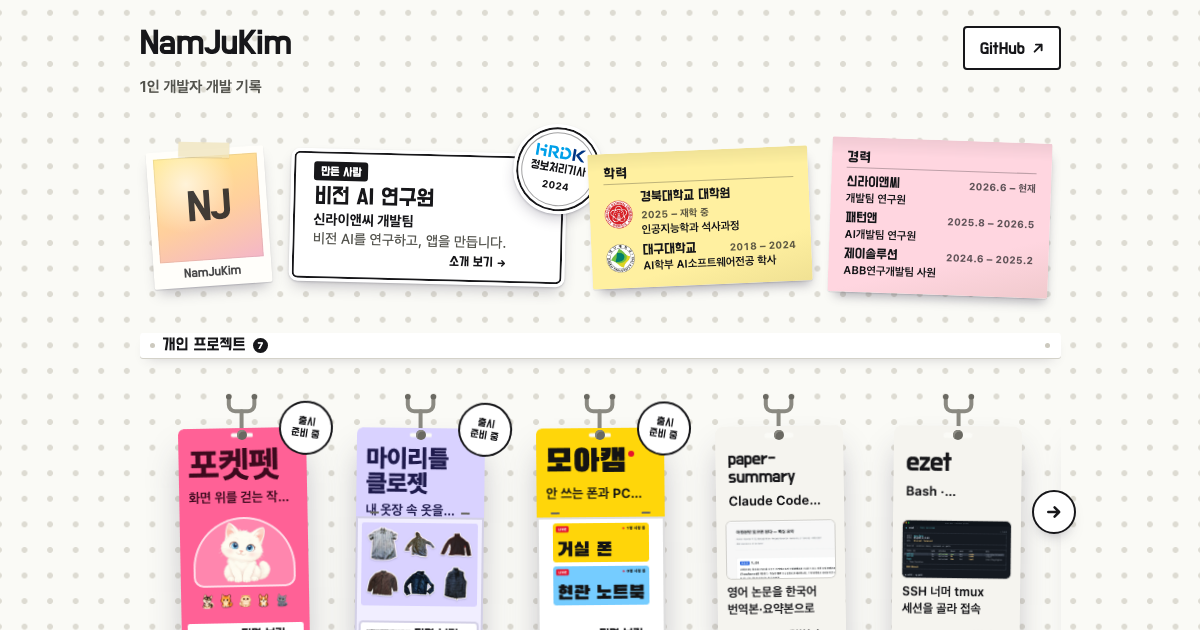
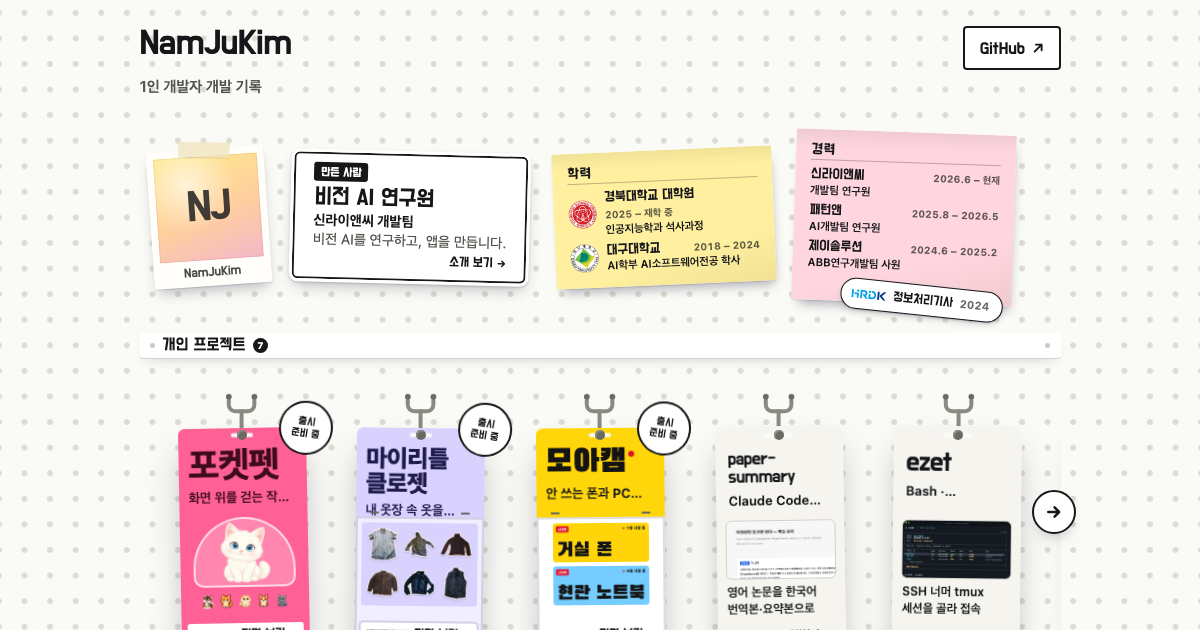
정보처리기사는 작은 딱지로 소개 맨 끝에
- 이름표 모서리의 큰 동그라미 인증 스티커를 작은 알약 딱지(HRDK 마크 + 정보처리기사 2024)로 줄이고, 소개 묶음의 마지막인 경력 포스트잇 오른쪽 아래 모서리로 옮겼다("그렇게 까지 강조할건 아냐", "내 소개 젤 끝에 작게").
- 이름표 오른쪽에 비워 두던 자리를 되돌렸다.
- 아주 좁은 폰(380px·340px 이하)은 포스트잇 글이 더 줄바뀜해서 스티커 묶음을 칸의 정수배만큼 더 높게.

Changed region(s): [[0.2467, 0.181, 0.8942, 0.5127]]

diff --git a/assets/site.css b/assets/site.css
@@ -355,7 +355,7 @@ a {
   flex: none;
   display: grid;
   justify-items: start;
-  padding: calc(var(--P) * 0.4) calc(var(--P) * 2.2) calc(var(--P) * 0.45) calc(var(--P) * 0.8);
+  padding: calc(var(--P) * 0.4) calc(var(--P) * 0.8) calc(var(--P) * 0.45);
   color: var(--ink);
   text-decoration: none;
   background: var(--paper);
@@ -489,42 +489,44 @@ a {
   font-weight: 600;
   line-height: 1.3;
 }
-/* 인증 스티커: 흰 동그라미에 겹 테두리, 가운데 발급 기관 마크. 이름표 오른쪽 위 모서리에 도장처럼 붙인다. */
+/* 정보처리기사: 소개 묶음 맨 끝, 마지막 포스트잇의 오른쪽 아래 모서리에 붙인 작은 알약 딱지. 크게 내세우지 않는다. */
+.note {
+  position: relative;
+}
+.note:has(.seal) {
+  padding-bottom: max(calc(var(--P) * 0.95), 1.9rem);
+}
 .seal {
   position: absolute;
-  top: calc(var(--P) * -1.3);
-  right: calc(var(--P) * -1.5);
-  display: grid;
-  place-items: center;
-  align-content: center;
-  gap: 0.12em;
-  width: max(calc(var(--P) * 3.5), 5.6rem);
-  height: max(calc(var(--P) * 3.5), 5.6rem);
-  text-align: center;
+  right: calc(var(--P) * 0.3);
+  bottom: calc(var(--P) * -0.45);
+  width: max-content;
+  display: inline-flex;
+  align-items: center;
+  gap: 0.4em;
+  padding: 0.32em 0.75em 0.3em 0.6em;
+  white-space: nowrap;
   color: var(--ink);
   background: var(--tone);
-  border: calc(var(--P) * 0.13) solid #fff;
-  border-radius: 50%;
+  border: 1.5px solid var(--ink);
+  border-radius: 999px;
   box-shadow:
-    inset 0 0 0 2px var(--ink),
-    inset 0 0 0 calc(2px + var(--P) * 0.12) var(--tone),
-    inset 0 0 0 calc(3px + var(--P) * 0.12) color-mix(in srgb, var(--ink) 40%, transparent),
-    0 1px 2px rgb(52 48 70 / 0.22),
-    0 calc(var(--P) * 0.3) calc(var(--P) * 0.6) calc(var(--P) * -0.2) rgb(52 48 70 / 0.32);
+    0 1px 2px rgb(52 48 70 / 0.18),
+    0 4px 8px -4px rgb(52 48 70 / 0.32);
   transform: rotate(var(--tilt, 0deg));
 }
 .seal__logo {
-  height: calc(var(--P) * 0.62);
+  height: 0.7rem;
   width: auto;
-  max-width: 70%;
 }
 .seal b {
-  font: 400 max(0.75rem, calc(var(--P) * 0.36)) / 1.1 var(--shop);
+  font: 400 0.8125rem / 1 var(--shop);
 }
 .seal small {
-  font-size: max(0.625rem, calc(var(--P) * 0.26));
+  font-size: 0.6875rem;
   font-weight: 700;
   font-variant-numeric: tabular-nums;
+  color: color-mix(in srgb, var(--ink) 65%, transparent);
 }
 
 /* 칸 이름 띠에 붙인 판촉 스티커(예: 모두의 창업). 띠 위로 조금 삐져나오게 붙인다. */
@@ -2396,22 +2398,26 @@ svg.app-icon {
   .hooks {
     padding-left: calc(var(--P) * var(--tlead));
   }
-  /* 이름표가 벽 끝까지 차므로 인증 스티커를 모서리 안쪽으로 당긴다(화면 밖으로 나가지 않게) */
-  .seal {
-    top: calc(var(--P) * -1.6);
-    right: calc(var(--P) * -0.6);
-  }
 }
 @media (max-width: 735px) {
   .maker {
     height: calc(var(--P) * 18);
   }
+}
+/* 아주 좁은 폰은 포스트잇 글이 더 줄바뀜하므로 묶음을 몇 칸 더 높게(칸의 정수배라 고리 맞춤은 그대로) */
+@media (max-width: 380px) {
+  .maker {
+    height: calc(var(--P) * 22);
+  }
+}
+@media (max-width: 340px) {
+  .maker {
+    height: calc(var(--P) * 30);
+  }
+}
+@media (max-width: 735px) {
   .maker__photo {
     width: calc(var(--P) * 5.2);
-  }
-  .seal {
-    top: calc(var(--P) * -1.6);
-    right: calc(var(--P) * -0.6);
   }
   .note__logo {
     width: calc(var(--P) * 1.7);

diff --git a/index.html b/index.html
@@ -41,11 +41,10 @@
   <span class="maker__org">신라이앤씨 개발팀</span>
   <span class="maker__line">비전 AI를 연구하고, 앱을 만듭니다.</span>
   <span class="maker__go">소개 보기 <svg viewBox="0 0 14 14" fill="none" stroke="currentColor" stroke-width="2.2" stroke-linecap="round" stroke-linejoin="round" aria-hidden="true" focusable="false"><path d="M2 7h9.5M7.5 3l4 4-4 4"/></svg></span>
-  <span class="seal" style="--tone:#ffffff;--tilt:8deg"><img class="seal__logo" src="/assets/img/marks/hrdk.svg" alt="" loading="lazy"><b>정보처리기사</b><small>2024</small></span>
 </a>
 <ul class="maker__stickers" aria-label="학력과 경력">
 <li class="note" style="--tone:#fff0a0;--tilt:-2.5deg"><p class="note__title">학력</p><ul class="note__rows"><li><img class="note__logo" src="/assets/img/marks/knu.webp" alt="" loading="lazy"><span class="note__text"><span class="note__head"><b>경북대학교 대학원</b><small>2025 – 재학 중</small></span><span>인공지능학과 석사과정</span></span></li><li><img class="note__logo" src="/assets/img/marks/daegu.webp" alt="" loading="lazy"><span class="note__text"><span class="note__head"><b>대구대학교</b><small>2018 – 2024</small></span><span>AI학부 AI소프트웨어전공 학사</span></span></li></ul></li>
-<li class="note" style="--tone:#ffd6e0;--tilt:2deg"><p class="note__title">경력</p><ul class="note__rows"><li><span class="note__text"><span class="note__head"><b>신라이앤씨</b><small>2026.6 – 현재</small></span><span>개발팀 연구원</span></span></li><li><span class="note__text"><span class="note__head"><b>패턴앤</b><small>2025.8 – 2026.5</small></span><span>AI개발팀 연구원</span></span></li><li><span class="note__text"><span class="note__head"><b>제이솔루션</b><small>2024.6 – 2025.2</small></span><span>ABB연구개발팀 사원</span></span></li></ul></li>
+<li class="note" style="--tone:#ffd6e0;--tilt:2deg"><p class="note__title">경력</p><ul class="note__rows"><li><span class="note__text"><span class="note__head"><b>신라이앤씨</b><small>2026.6 – 현재</small></span><span>개발팀 연구원</span></span></li><li><span class="note__text"><span class="note__head"><b>패턴앤</b><small>2025.8 – 2026.5</small></span><span>AI개발팀 연구원</span></span></li><li><span class="note__text"><span class="note__head"><b>제이솔루션</b><small>2024.6 – 2025.2</small></span><span>ABB연구개발팀 사원</span></span></li></ul><span class="seal" style="--tone:#ffffff;--tilt:4deg"><img class="seal__logo" src="/assets/img/marks/hrdk.svg" alt="" loading="lazy"><b>정보처리기사</b><small>2024</small></span></li>
 </ul>
 </section>
 <section class="aisle aisle--personal" aria-labelledby="a-personal">

diff --git a/tool/build.py b/tool/build.py
@@ -518,8 +518,8 @@ def maker(profile):
             return ""
         return f'<img class="{cls}" src="{esc(logo)}" alt="" loading="lazy">'
 
-    def note(x):
-        """포스트잇 한 장: 제목(학력·경력)과 줄마다 마크·이름·기간·한 줄."""
+    def note(x, extra=""):
+        """포스트잇 한 장: 제목(학력·경력)과 줄마다 마크·이름·기간·한 줄. extra 는 모서리에 붙일 작은 딱지."""
         rows = "".join(
             f'<li>{mark(r, "note__logo")}<span class="note__text"><span class="note__head"><b>{esc(r["name"])}</b>'
             f'<small>{esc(r["when"])}</small></span><span>{esc(r["detail"])}</span></span></li>'
@@ -527,18 +527,19 @@ def maker(profile):
         )
         return (
             f'<li class="note" style="--tone:{x["tone"]};--tilt:{x["tilt"]}deg">'
-            f'<p class="note__title">{esc(x["title"])}</p><ul class="note__rows">{rows}</ul></li>'
+            f'<p class="note__title">{esc(x["title"])}</p><ul class="note__rows">{rows}</ul>{extra}</li>'
         )
 
     def seal(x):
-        """인증 스티커. 이름표 모서리에 도장처럼 붙인다."""
+        """자격증 딱지. 소개 묶음 맨 끝(마지막 포스트잇의 오른쪽 아래 모서리)에 작게 붙인다."""
         return (
             f'<span class="seal" style="--tone:{x["tone"]};--tilt:{x["tilt"]}deg">{mark(x, "seal__logo")}'
             f'<b>{esc(x["top"])}</b><small>{esc(x["sub"])}</small></span>'
         )
 
-    notes = "\n".join(note(x) for x in profile["stickers"] if x["kind"] == "note")
+    note_items = [x for x in profile["stickers"] if x["kind"] == "note"]
     seals = "".join(seal(x) for x in profile["stickers"] if x["kind"] == "seal")
+    notes = "\n".join(note(x, seals if i == len(note_items) - 1 else "") for i, x in enumerate(note_items))
     href = esc(profile["href"])
     return f"""<section class="maker" aria-label="{esc(profile["label"])}">
 <a class="maker__photo polaroid" href="{href}" tabindex="-1" aria-hidden="true">{photo}</a>
@@ -548,7 +549,6 @@ def maker(profile):
   <span class="maker__org">{esc(profile["org"])}</span>
   <span class="maker__line">{esc(profile["line"])}</span>
   <span class="maker__go">소개 보기 {ICON_GO}</span>
-  {seals}
 </a>
 <ul class="maker__stickers" aria-label="학력과 경력">
 {notes}

diff --git a/README.md b/README.md
@@ -56,7 +56,7 @@ python3 -m http.server 8765    # http://127.0.0.1:8765 에서 미리 보기
   - 이름표: `label`, `role`, `org`, `line`. 누르면 `href`(소개 페이지)로 갑니다.
   - `stickers`:
     - `kind: note`는 포스트잇입니다. `title`(학력·경력)과 `rows`(줄마다 `logo`, `name`, `detail`, `when`)를 적습니다.
-    - `kind: seal`은 이름표 모서리에 붙는 인증 스티커(정보처리기사)입니다.
+    - `kind: seal`은 자격증 딱지(정보처리기사)입니다. 소개 묶음 맨 끝, 마지막 포스트잇 오른쪽 아래에 작게 붙습니다.
     - 색은 `tone`, 기울기는 `tilt`입니다.
   - 학교·기관 마크는 `assets/img/marks/`에 있습니다(경북대·대구대 공식 UI 묶음, 한국산업인력공단 공식 로고 SVG). 경북대 UI 관리지침은 상업적 사용을 금지하고 외부인 사용에 허가를 요구합니다.
 - `rows`는 그 아래 칸입니다.
